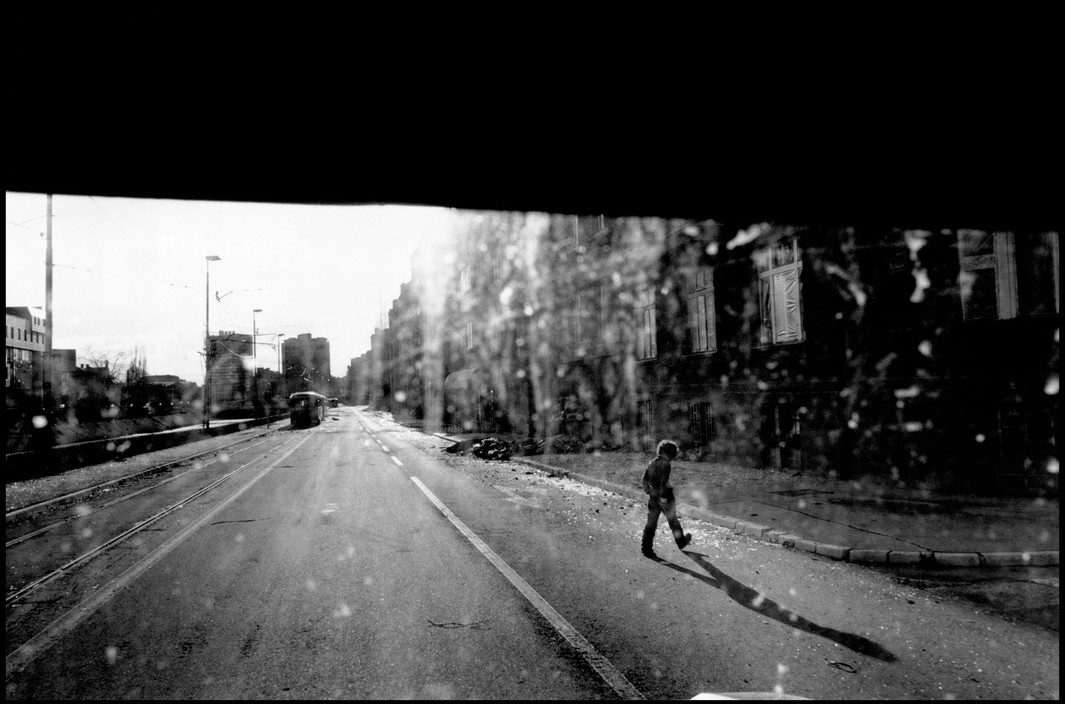
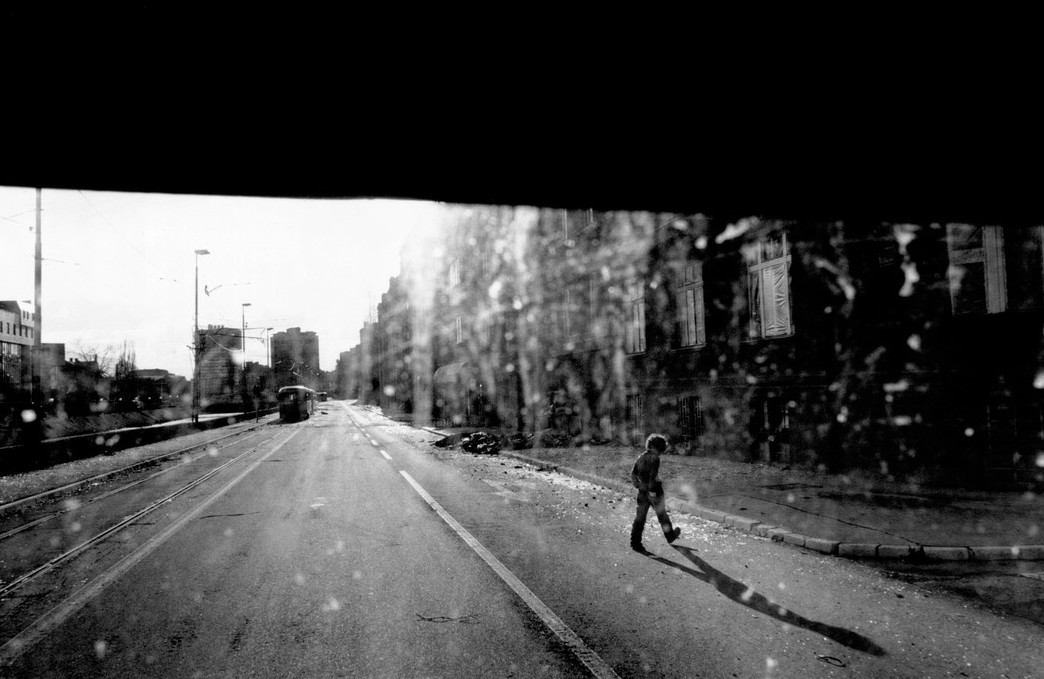
Gilles 1

diff --git a/content/photographers/gilles-peress.md b/content/photographers/gilles-peress.md
@@ -1,9 +1,9 @@
 ---
 name: "Gilles Peress"
 role: Photojournalist
-portrait: sniper_alley_gilles_peress_01.png
+portrait: sniper_alley_gilles_peress_03.jpg
 photos:
-  - file: sniper_alley_gilles_peress_01.png
+  - file: sniper_alley_gilles_peress_01.jpg
     credit: "Photo Copyright © Gilles Peress"
   - file: sniper_alley_gilles_peress_02.jpg
     credit: "Photo Copyright © Gilles Peress"
@@ -29,4 +29,51 @@ photos:
     credit: "Photo Copyright © Gilles Peress"
   - file: sniper_alley_gilles_peress_14.jpg
     credit: "Photo Copyright © Gilles Peress"
+  - file: sniper_alley_gilles_peress_15.jpg
+    credit: "Photo Copyright © Gilles Peress"
+  - file: sniper_alley_gilles_peress_16.jpg
+    credit: "Photo Copyright © Gilles Peress"
+  - file: sniper_alley_gilles_peress_17.jpg
+    credit: "Photo Copyright © Gilles Peress"
+  - file: sniper_alley_gilles_peress_18.jpg
+    credit: "Photo Copyright © Gilles Peress"
+  - file: sniper_alley_gilles_peress_19.jpg
+    credit: "Photo Copyright © Gilles Peress"
+  - file: sniper_alley_gilles_peress_20.jpg
+    credit: "Photo Copyright © Gilles Peress"
+  - file: sniper_alley_gilles_peress_21.jpg
+    credit: "Photo Copyright © Gilles Peress"
+  - file: sniper_alley_gilles_peress_23.jpg
+    credit: "Photo Copyright © Gilles Peress"
+  - file: sniper_alley_gilles_peress_24.jpg
+    credit: "Photo Copyright © Gilles Peress"
+  - file: sniper_alley_gilles_peress_25.jpg
+    credit: "Photo Copyright © Gilles Peress"
+  - file: sniper_alley_gilles_peress_26.jpg
+    credit: "Photo Copyright © Gilles Peress"
+  - file: sniper_alley_gilles_peress_27.jpg
+    credit: "Photo Copyright © Gilles Peress"
+  - file: sniper_alley_gilles_peress_28.jpg
+    credit: "Photo Copyright © Gilles Peress"
+  - file: sniper_alley_gilles_peress_29.jpg
+    credit: "Photo Copyright © Gilles Peress"
+  - file: sniper_alley_gilles_peress_30.jpg
+    credit: "Photo Copyright © Gilles Peress"
+  - file: sniper_alley_gilles_peress_31.jpg
+    credit: "Photo Copyright © Gilles Peress"
+  - file: sniper_alley_gilles_peress_33.jpg
+    credit: "Photo Copyright © Gilles Peress"
+  - file: sniper_alley_gilles_peress_34.jpg
+    credit: "Photo Copyright © Gilles Peress"
+  - file: sniper_alley_gilles_peress_35.jpg
+    credit: "Photo Copyright © Gilles Peress"
+  - file: sniper_alley_gilles_peress_36.jpg
+    credit: "Photo Copyright © Gilles Peress"
+  - file: sniper_alley_gilles_peress_37.jpg
+    credit: "Photo Copyright © Gilles Peress"
+  - file: sniper_alley_gilles_peress_38.jpg
+    credit: "Photo Copyright © Gilles Peress"
+  - file: sniper_alley_gilles_peress_39.jpg
+    credit: "Photo Copyright © Gilles Peress"
 ---
+Gilles Peress was born on 29 December 1946 in France and is considered one of the most influential documentary photographers of his generation and a longtime member of Magnum Photos, which he joined in 1971. Over a career spanning more than five decades, Peress has built a body of work centered on conflict, migration and human rights, documenting events in Iran, Northern Ireland, Lebanon, Rwanda and the former Yugoslavia. Known for his raw, unflinching visual style, he has published influential photobooks including Telex Iran, The Silence: Rwanda, Farewell to Bosnia and The Graves: Srebrenica and Vukovar. Peress's work in Bosnia remains among his most significant. He later returned to the region to document the exhumation of mass graves following the Srebrenica genocide of 1995, working alongside forensic investigators, an experience that resulted in 'The Graves', a harrowing visual record of the massacre's aftermath. During the Siege of Sarajevo, Peress spent extended periods in the besieged city, capturing the daily struggle for survival under relentless sniper fire and shelling. His photographs from this period compiled in 'Farewell to Bosnia' bear witness to the suffering, resilience and devastation endured by Sarajevo's citizens throughout nearly four years of siege, standing as some of the most powerful testimonies of the war.
